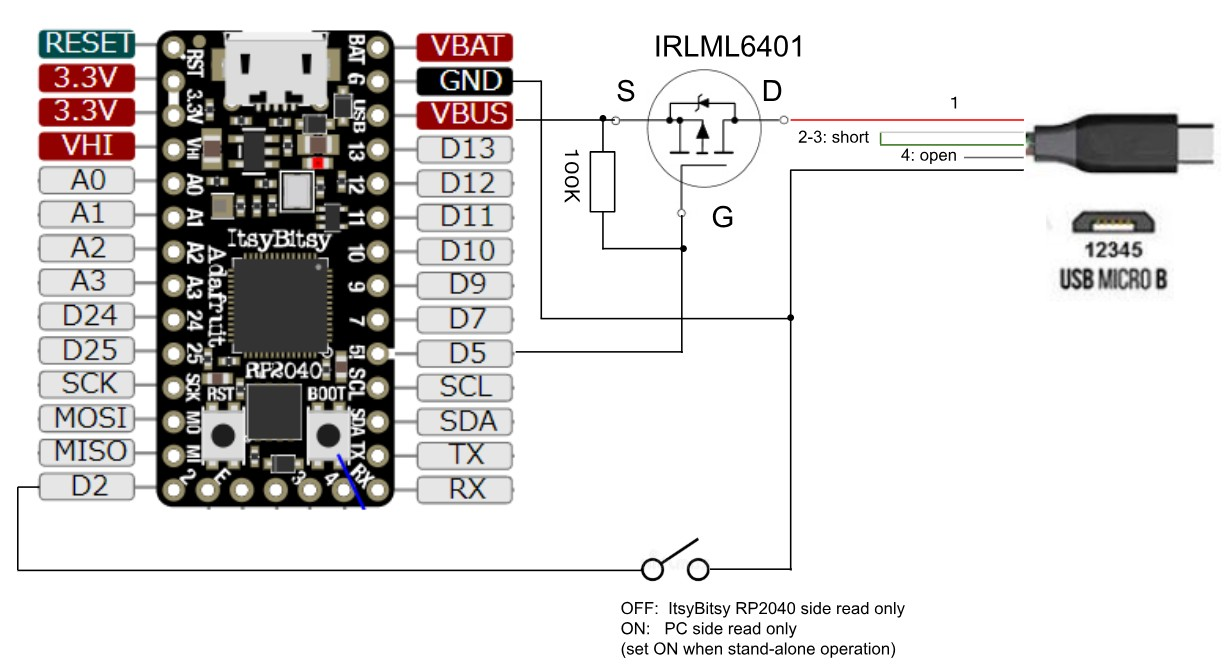
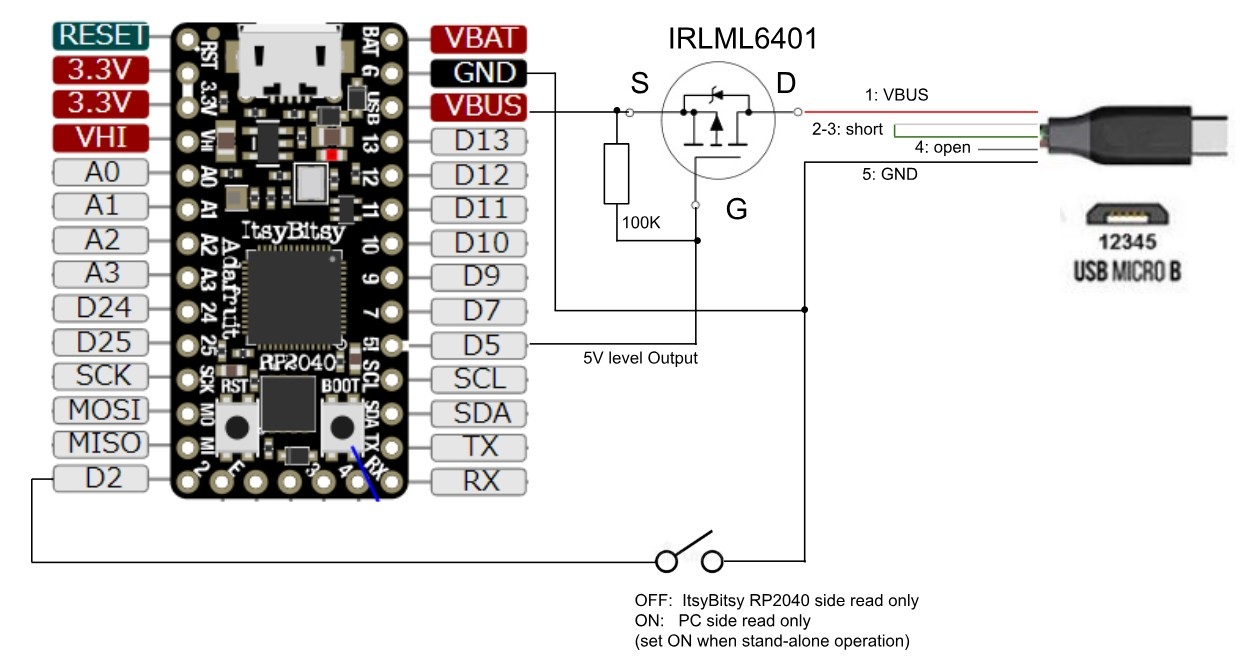
revise schematic

Changed region(s): [[0.0, 0.0301, 0.991, 0.994], [0.8362, 0.3012, 0.9601, 0.4518]]

diff --git a/README.md b/README.md
@@ -24,8 +24,8 @@ This project features:
 
 ## How to build
 * Program adafruit-circuitpython-adafruit_itsybitsy_rp2040-xxxx.uf2 from [CircuitPython ItsyBitsy RP2040](https://circuitpython.org/board/adafruit_itsybitsy_rp2040/)
-(Confirmed with adafruit-circuitpython-adafruit_itsybitsy_rp2040-en_US-9.2.4.uf2)
-* If you've already connect the circuit in the schematic, open the switch connected with D2.
+(Confirmed with `adafruit-circuitpython-adafruit_itsybitsy_rp2040-en_US-9.2.4.uf2`)
+* If you've already connected the circuit in the schematic, open the switch connected with D2.
 * Put code.py, config.py and boot.py on CircuitPython drive
 
 ## Usage
@@ -36,6 +36,7 @@ Serial command through serial terminal connected to USB
 * 'd': decrease OFF time
 * 'o': immediate ON
 * 'x': immediate OFF
+
 (When operation, close the switch (connected with D2) to give rewrite permission for config.py)
 
 ## Note
